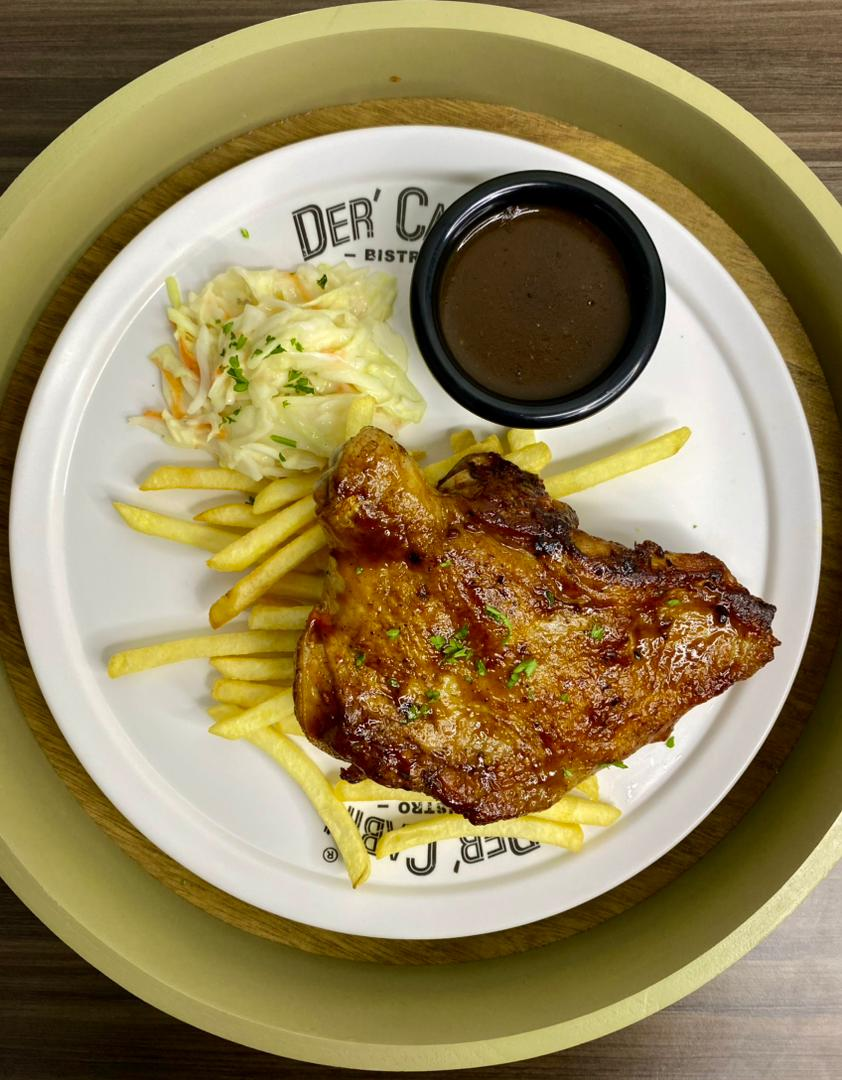
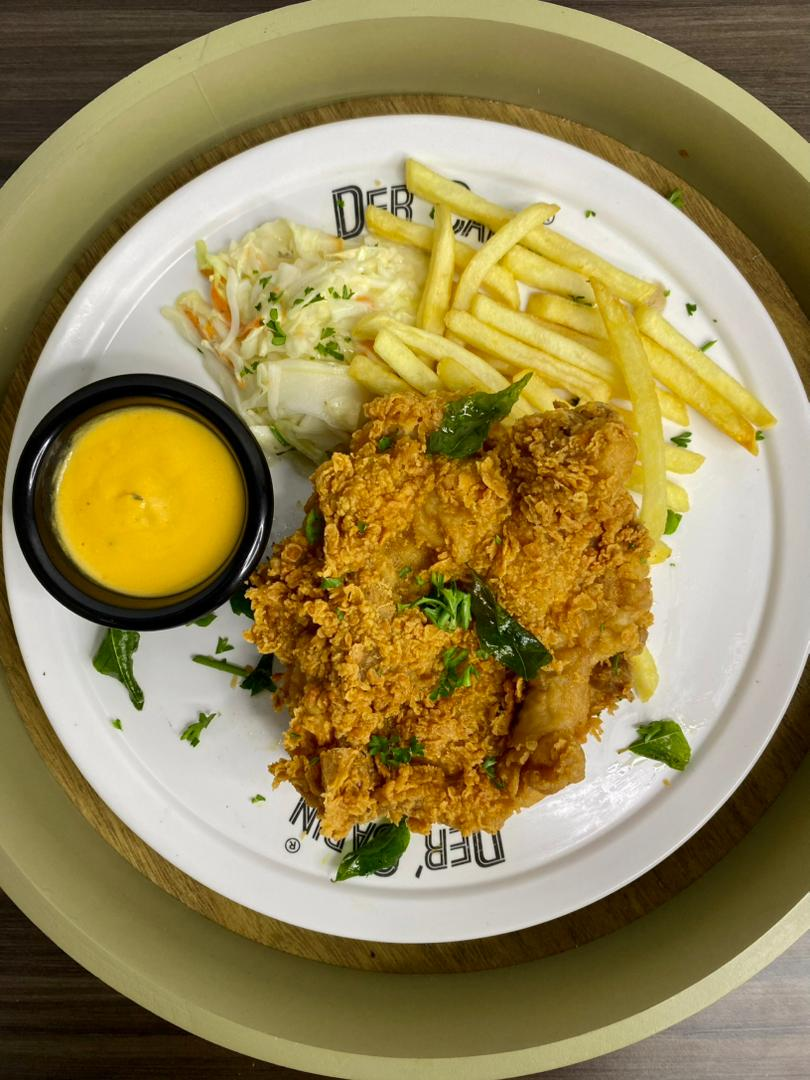
update menu data

diff --git a/data/menu.ts b/data/menu.ts
@@ -154,16 +154,16 @@ export const menus: MenuItem[] = [
   // Mixed Grilled
   {
     id: "mixed-grilled-1",
-    name: "Mixed Grilled Lamb + Grilled Chicken",
+    name: "Mixed Grilled Beef + Grilled Chicken",
     image: "/Images/mixed-grilled-1.jpg",
     description:
-      "A perfect harmony of juicy grilled lamb and tender chicken, flame-grilled to perfection and served with golden fries, fresh coleslaw, and our signature black pepper sauce.",
+      "Grilled beef and juicy chicken thigh, chargrilled to smoky perfection and served with golden fries, fresh coleslaw, and our classic black pepper sauce.",
     category: "Mixed Grilled",
     price: {
       currency: "RM",
       standard: {
-        current: "99.99",
-        original: "99.99",
+        current: "44.90",
+        original: "44.90",
       },
     },
     isDiscount: false,
@@ -171,89 +171,89 @@ export const menus: MenuItem[] = [
   },
   {
     id: "mixed-grilled-2",
-    name: "Mixed Grilled Salmon + Grilled Chicken",
+    name: "Mixed Grilled Lamb + Grilled Chicken",
     image: "/Images/mixed-grilled-2.jpg",
     description:
-      "Delicate grilled salmon paired with tender chicken, served hot with golden fries, crisp coleslaw, and our creamy garlic sauce — a delightful balance of flavor and freshness.",
+      "A perfect harmony of juicy grilled lamb and tender chicken, flame-grilled to perfection and served with golden fries, fresh coleslaw, and our signature black pepper sauce.",
     category: "Mixed Grilled",
     price: {
       currency: "RM",
       standard: {
-        current: "99.99",
-        original: "99.99",
+        current: "39.90",
+        original: "39.90",
       },
     },
     isDiscount: false,
     isBestSeller: false,
   },
-  {
-    id: "mixed-grilled-3",
-    name: "Mixed Grilled Beef + Grilled Chicken",
-    image: "/Images/mixed-grilled-3.jpg",
-    description:
-      "Grilled beef and juicy chicken thigh, chargrilled to smoky perfection and served with golden fries, fresh coleslaw, and our classic black pepper sauce.",
-    category: "Mixed Grilled",
-    price: {
-      currency: "RM",
-      standard: {
-        current: "99.99",
-        original: "99.99",
-      },
-    },
-    isDiscount: false,
-    isBestSeller: false,
-  },
-  {
-    id: "mixed-grilled-4",
-    name: "Mixed Grilled Lamb + Grilled Salmon",
-    image: "/Images/mixed-grilled-4.jpg",
-    description:
-      "A luxurious pairing of juicy grilled lamb and tender salmon, served with golden fries, crisp coleslaw, and our signature creamy garlic sauce — indulgence in every bite.",
-    category: "Mixed Grilled",
-    price: {
-      currency: "RM",
-      standard: {
-        current: "99.99",
-        original: "99.99",
-      },
-    },
-    isDiscount: false,
-    isBestSeller: false,
-  },
-  {
-    id: "mixed-grilled-5",
-    name: "Mixed Grilled Lamb + Grilled Beef",
-    image: "/Images/mixed-grilled-5.jpg",
-    description:
-      "A bold and flavorful duo of tender grilled lamb and juicy beef, served with golden fries, fresh coleslaw, and our rich black pepper sauce for the ultimate grill experience.",
-    category: "Mixed Grilled",
-    price: {
-      currency: "RM",
-      standard: {
-        current: "99.99",
-        original: "99.99",
-      },
-    },
-    isDiscount: false,
-    isBestSeller: false,
-  },
-  {
-    id: "mixed-grilled-6",
-    name: "Mixed Grilled Salmon + Grilled Beef",
-    image: "/Images/mixed-grilled-6.jpg",
-    description:
-      "A refined blend of tender grilled salmon and juicy beef, served with golden fries, fresh coleslaw, and our signature creamy garlic sauce — a true taste of indulgence.",
-    category: "Mixed Grilled",
-    price: {
-      currency: "RM",
-      standard: {
-        current: "99.99",
-        original: "99.99",
-      },
-    },
-    isDiscount: false,
-    isBestSeller: false,
-  },
+  // {
+  //   id: "mixed-grilled-3",
+  //   name: "Mixed Grilled Lamb + Grilled Beef",
+  //   image: "/Images/mixed-grilled-3.jpg",
+  //   description:
+  //     "A bold and flavorful duo of tender grilled lamb and juicy beef, served with golden fries, fresh coleslaw, and our rich black pepper sauce for the ultimate grill experience.",
+  //   category: "Mixed Grilled",
+  //   price: {
+  //     currency: "RM",
+  //     standard: {
+  //       current: "99.99",
+  //       original: "99.99",
+  //     },
+  //   },
+  //   isDiscount: false,
+  //   isBestSeller: false,
+  // },
+  // {
+  //   id: "mixed-grilled-4",
+  //   name: "Mixed Grilled Lamb + Grilled Salmon",
+  //   image: "/Images/mixed-grilled-4.jpg",
+  //   description:
+  //     "A luxurious pairing of juicy grilled lamb and tender salmon, served with golden fries, crisp coleslaw, and our signature creamy garlic sauce — indulgence in every bite.",
+  //   category: "Mixed Grilled",
+  //   price: {
+  //     currency: "RM",
+  //     standard: {
+  //       current: "99.99",
+  //       original: "99.99",
+  //     },
+  //   },
+  //   isDiscount: false,
+  //   isBestSeller: false,
+  // },
+  // {
+  //   id: "mixed-grilled-5",
+  //   name: "Mixed Grilled Salmon + Grilled Chicken",
+  //   image: "/Images/mixed-grilled-5.jpg",
+  //   description:
+  //     "Delicate grilled salmon paired with tender chicken, served hot with golden fries, crisp coleslaw, and our creamy garlic sauce — a delightful balance of flavor and freshness.",
+  //   category: "Mixed Grilled",
+  //   price: {
+  //     currency: "RM",
+  //     standard: {
+  //       current: "99.99",
+  //       original: "99.99",
+  //     },
+  //   },
+  //   isDiscount: false,
+  //   isBestSeller: false,
+  // },
+  // {
+  //   id: "mixed-grilled-6",
+  //   name: "Mixed Grilled Salmon + Grilled Beef",
+  //   image: "/Images/mixed-grilled-6.jpg",
+  //   description:
+  //     "A refined blend of tender grilled salmon and juicy beef, served with golden fries, fresh coleslaw, and our signature creamy garlic sauce — a true taste of indulgence.",
+  //   category: "Mixed Grilled",
+  //   price: {
+  //     currency: "RM",
+  //     standard: {
+  //       current: "99.99",
+  //       original: "99.99",
+  //     },
+  //   },
+  //   isDiscount: false,
+  //   isBestSeller: false,
+  // },
 
   // Chicken Feast
   {
@@ -276,8 +276,59 @@ export const menus: MenuItem[] = [
   },
   {
     id: "chicken-2",
-    name: "Cheesy Chicken Ball",
+    name: "Grilled Chicken Chop (Thigh Part)",
     image: "/Images/chicken-2.jpg",
+    description:
+      "Juicy grilled chicken thigh served with savoury sauce, crispy fries, and coleslaw.",
+    category: "Chicken Feast",
+    price: {
+      currency: "RM",
+      standard: {
+        current: "15.90",
+        original: "15.90",
+      },
+    },
+    isDiscount: false,
+    isBestSeller: false,
+  },
+  {
+    id: "chicken-3",
+    name: "Salted Egg Chicken Chop (Thigh Part)",
+    image: "/Images/chicken-3.jpg",
+    description:
+      "Chicken thigh coated with seasoned flour, fried to crispy perfection, served with salted egg sauce, fries and coleslaw.",
+    category: "Chicken Feast",
+    price: {
+      currency: "RM",
+      standard: {
+        current: "16.90",
+        original: "16.90",
+      },
+    },
+    isDiscount: false,
+    isBestSeller: false,
+  },
+  {
+    id: "chicken-4",
+    name: "XXL Chicken Chop",
+    image: "/Images/chicken-4.jpg",
+    description:
+      "Crispy XXL Chicken Chop, served in 6 pieces (540 g). Juicy on the inside, golden and crunchy on the outside",
+    category: "Chicken Feast",
+    price: {
+      currency: "RM",
+      standard: {
+        current: "16.90",
+        original: "16.90",
+      },
+    },
+    isDiscount: false,
+    isBestSeller: false,
+  },
+  {
+    id: "chicken-5",
+    name: "Cheesy Chicken Ball",
+    image: "/Images/chicken-5.jpg",
     description:
       "Crispy on the outside, juicy chicken on the inside, with melted cheese at the center for that perfect bite-sized delight.",
     category: "Chicken Feast",
@@ -286,40 +337,6 @@ export const menus: MenuItem[] = [
       standard: {
         current: "13.90",
         original: "13.90",
-      },
-    },
-    isDiscount: false,
-    isBestSeller: false,
-  },
-  {
-    id: "chicken-3",
-    name: "Grilled Chicken Chop (Thigh Part)",
-    image: "/Images/chicken-3.jpg",
-    description:
-      "Juicy grilled chicken thigh served with savoury sauce, crispy fries, and coleslaw.",
-    category: "Chicken Feast",
-    price: {
-      currency: "RM",
-      standard: {
-        current: "14.90",
-        original: "14.90",
-      },
-    },
-    isDiscount: false,
-    isBestSeller: false,
-  },
-  {
-    id: "chicken-4",
-    name: "Salted Egg Chicken (Thigh Part)",
-    image: "/Images/chicken-4.jpg",
-    description:
-      "Chicken thigh coated with seasoned flour, fried to crispy perfection, served with salted egg sauce, fries and coleslaw.",
-    category: "Chicken Feast",
-    price: {
-      currency: "RM",
-      standard: {
-        current: "15.90",
-        original: "15.90",
       },
     },
     isDiscount: false,
@@ -337,8 +354,8 @@ export const menus: MenuItem[] = [
     price: {
       currency: "RM",
       standard: {
-        current: "14.90",
-        original: "14.90",
+        current: "16.90",
+        original: "16.90",
       },
     },
     isDiscount: false,
@@ -561,8 +578,8 @@ export const menus: MenuItem[] = [
     price: {
       currency: "RM",
       standard: {
-        current: "16.90",
-        original: "16.90",
+        current: "17.90",
+        original: "17.90",
       },
     },
     isDiscount: false,
@@ -587,26 +604,26 @@ export const menus: MenuItem[] = [
     isDiscount: false,
     isBestSeller: false,
   },
-  {
-    id: "kids-2",
-    name: "Kid’s Fish & Fries",
-    image: "/Images/kids-2.jpg",
-    description:
-      "Crispy fried fish fillet served with golden fries — simple and tasty for kids.",
-    category: "For Kiddies",
-    price: {
-      currency: "RM",
-      standard: {
-        current: "7.90",
-        original: "7.90",
-      },
-    },
-    isDiscount: false,
-    isBestSeller: false,
-  },
+  // {
+  //   id: "kids-2",
+  //   name: "Kid’s Fish & Fries",
+  //   image: "/Images/kids-2.jpg",
+  //   description:
+  //     "Crispy fried fish fillet served with golden fries — simple and tasty for kids.",
+  //   category: "For Kiddies",
+  //   price: {
+  //     currency: "RM",
+  //     standard: {
+  //       current: "7.90",
+  //       original: "7.90",
+  //     },
+  //   },
+  //   isDiscount: false,
+  //   isBestSeller: false,
+  // },
   {
     id: "kids-3",
-    name: "Kid’s Cabonara Pasta",
+    name: "Kid’s Alfredo Pasta",
     image: "/Images/kids-3.jpg",
     description:
       "Creamy pasta with tasty chicken ham - perfectly portioned for little tummies!",
